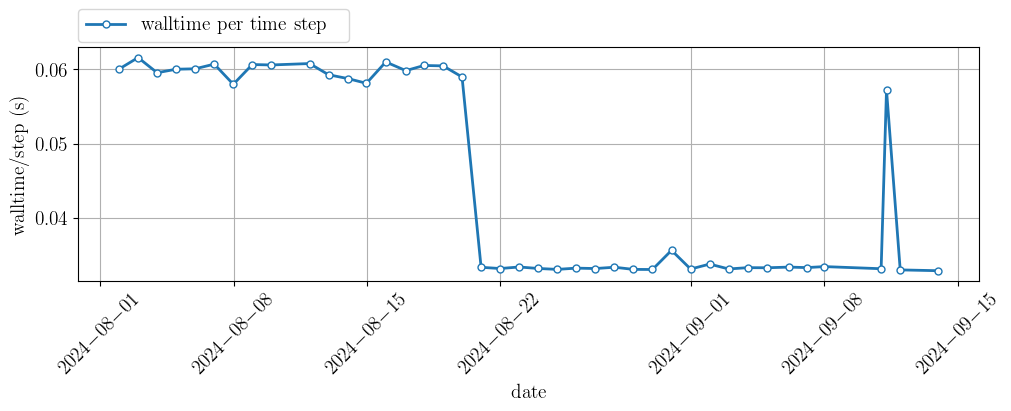
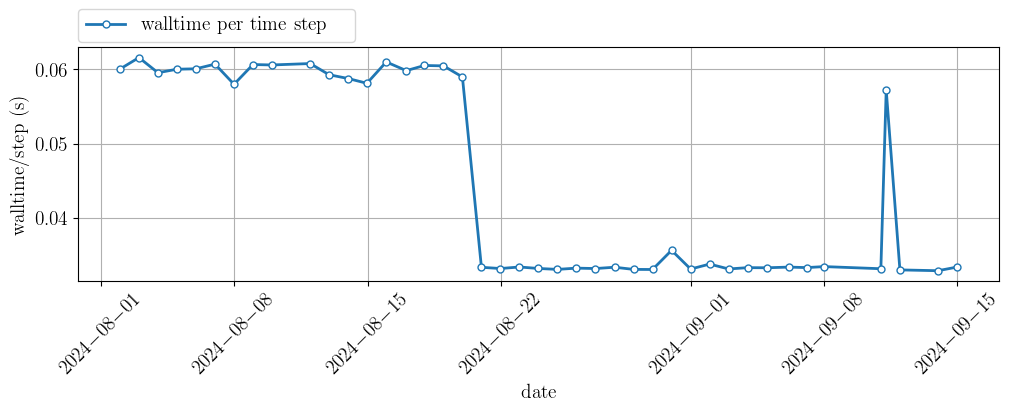
Automatic timing summary commit:

diff --git a/README.md b/README.md
@@ -1,4 +1,4 @@
-# Timing status (last ran on: 2024.09.13)
+# Timing status (last ran on: 2024.09.14)
 
 [![y3-prediction-scalability](https://github.com/illinois-ceesd/timing/actions/workflows/y3-prediction-scalability.yaml/badge.svg)](https://github.com/illinois-ceesd/timing/actions/workflows/y3-prediction-scalability.yaml) [![y2-prediction-timing](https://github.com/illinois-ceesd/timing/actions/workflows/y2-prediction-timing.yaml/badge.svg)](https://github.com/illinois-ceesd/timing/actions/workflows/y2-prediction-timing.yaml) [![isolator-timing](https://github.com/illinois-ceesd/timing/actions/workflows/isolator-timing.yaml/badge.svg)](https://github.com/illinois-ceesd/timing/actions/workflows/isolator-timing.yaml) [![flame1d-timing](https://github.com/illinois-ceesd/timing/actions/workflows/flame1d-timing.yaml/badge.svg)](https://github.com/illinois-ceesd/timing/actions/workflows/flame1d-timing.yaml) [![nozzle-timing](https://github.com/illinois-ceesd/timing/actions/workflows/nozzle-timing.yaml/badge.svg)](https://github.com/illinois-ceesd/timing/actions/workflows/nozzle-timing.yaml)
 
